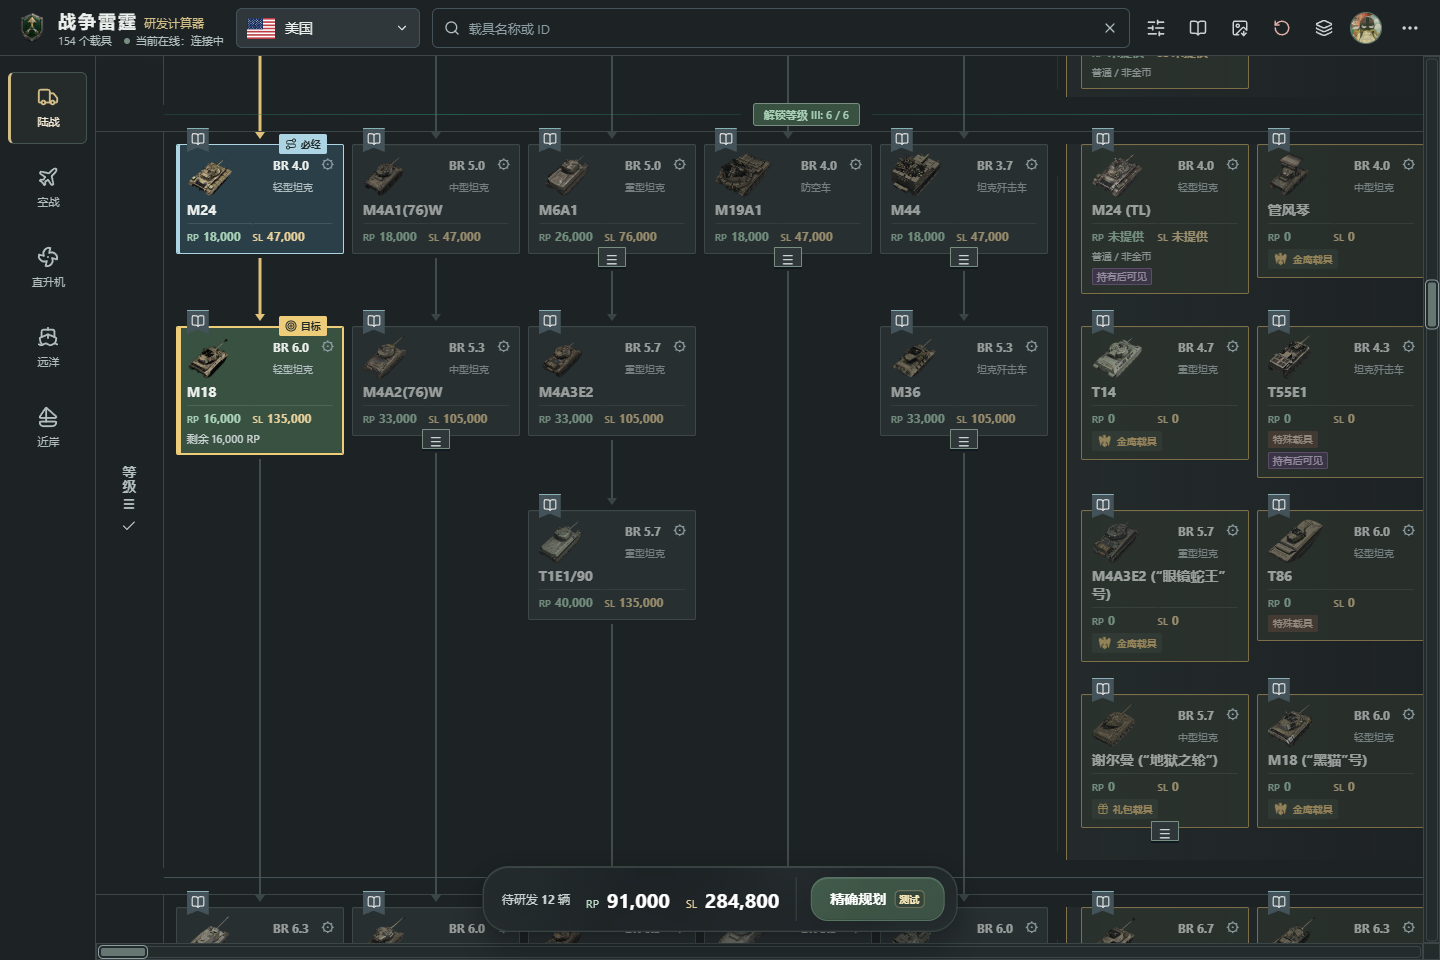
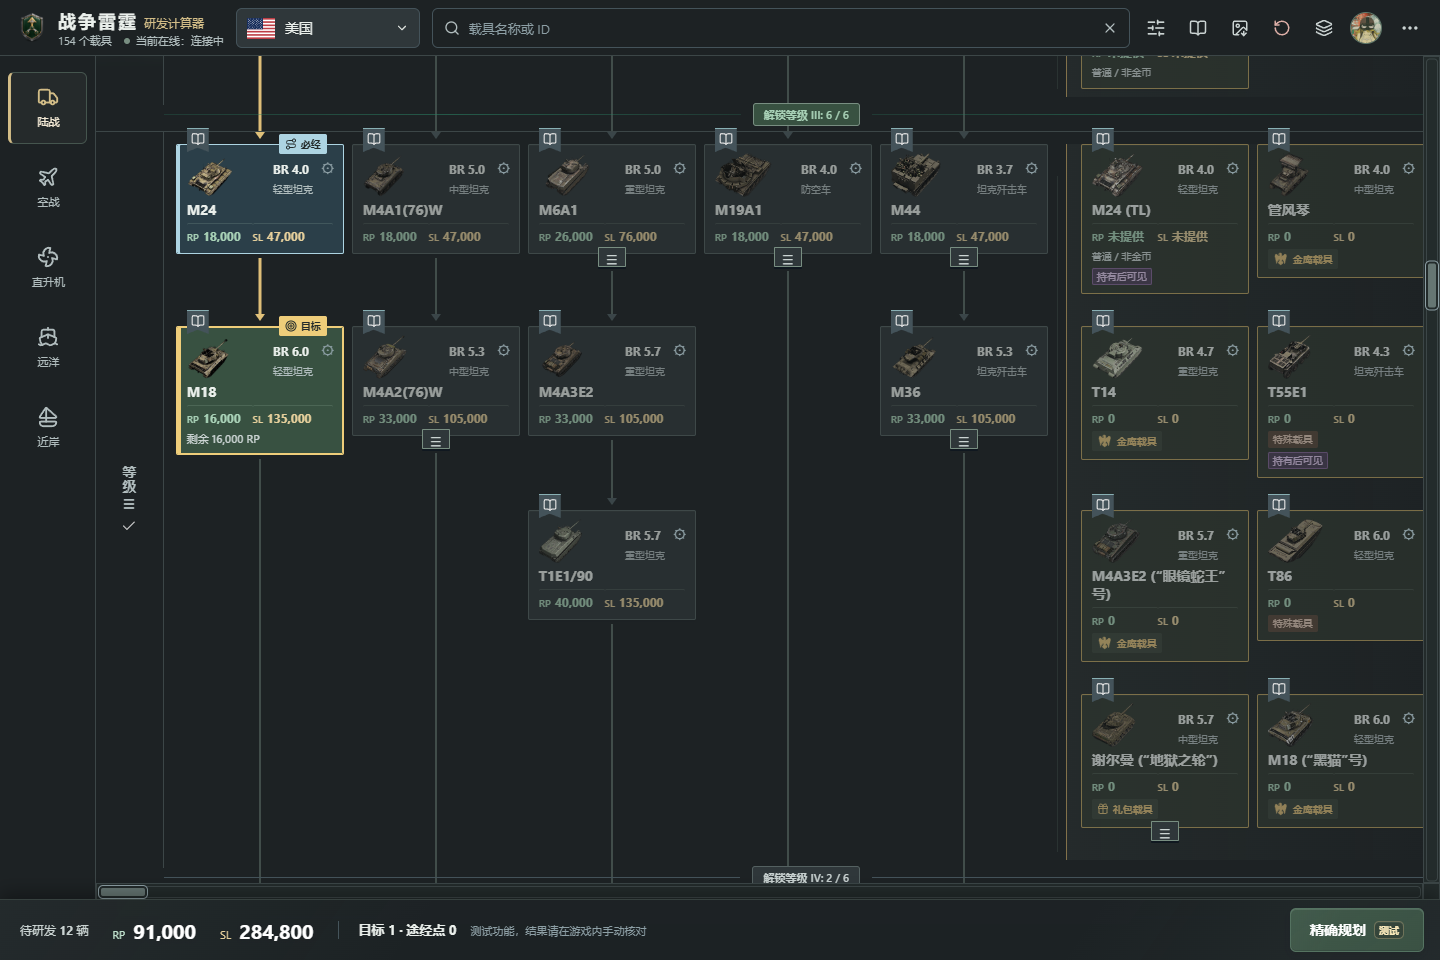
docs(readme): refresh counts, screenshots and data notes
- Count the three event vehicles added on 2026-10-24: 3,238 vehicles
  and 3,228 modification trees.
- Recapture the README screenshots. The tree view now shows the docked
  full-width budget bar.
- The capture script took the tree screenshot before the idle callback
  drew the connections. It now waits for the route path.
- Split long data notes into short sentences and lists. The facts are
  unchanged. Mention the target and waypoint summary in the desktop bar.

diff --git a/README.md b/README.md
@@ -14,7 +14,7 @@
 
 <p align="center"><strong>简体中文</strong> &nbsp; / &nbsp; <a href="README.en.md">English</a></p>
 
-<p align="center"><sub>3,235 辆载具 · 3,225 套配件树 · 5 类军种 · 7 种界面语言</sub></p>
+<p align="center"><sub>3,238 辆载具 · 3,228 套配件树 · 5 类军种 · 7 种界面语言</sub></p>
 
 ## 自动规划研发路线
 
@@ -26,7 +26,7 @@
 - **规划后仍可调整**：单独取消一辆车或标记已拥有，不会清空整条路线；再次规划时再重新计算。
 - **按游戏里的剩余值算**：直接填写游戏显示的剩余 RP。例如总计 140,000 RP、还剩 60,000 RP，就填 60,000；预算和自动规划按这个数计算，银狮不变。
 - **批量标记已拥有**：按等级标记本级及以下普通载具，确认前可查看列表，操作后可撤销；特殊和隐藏载具不会一并标记。
-- **看清完整预算**：底部显示待研发数量、RP 与银狮；可将完整科技树连同预算导出为图片。
+- **看清完整预算**：底栏显示待研发数量、RP 和银狮。电脑端的底栏还显示目标和途经点数量。完整科技树可以连同预算导出为图片。
 
 > 精确规划为测试功能。搜索达到本机计算上限时，结果是当前找到的最佳路线，不保证全局最优；实际研发前请在游戏内核对。
 
@@ -61,7 +61,12 @@
 | 查看载具资料 | 点击卡片上的 Wiki 小书签 | 同左 |
 | 打开配件研发 | 点击卡片右上角的齿轮 | 同左 |
 
-电脑端顶栏只有一行：国家、搜索，以及筛选、使用指南、导出截图、清空计划、备份几个图标按钮，鼠标悬停显示名称。计算范围、“自动补位时避开折叠载具”和“全选”在“筛选”菜单；语言和游戏版本在右上角“更多”菜单；点击头像查看作者信息。窗口较窄时，国家与军种、搜索各占一行。
+电脑端顶栏只有一行：国家、搜索，以及筛选、使用指南、导出截图、清空计划、备份几个图标按钮。鼠标悬停可以看到按钮名称。
+
+- 计算范围、“自动补位时避开折叠载具”和“全选”在“筛选”菜单里。
+- 语言和游戏版本在右上角“更多”菜单里。
+- 点击头像查看作者信息。
+- 窗口较窄时，国家与军种占一行，搜索占一行。
 
 手机版的使用指南和导出功能位于顶部“更多”菜单，搜索和筛选有各自的入口。最新网页改动见[独立更新日志](doc/web-updates.md)，使用指南中保留历史版本记录。
 
@@ -71,7 +76,7 @@
 
 网页版直接打开即可，无需游戏账号。Windows 用户下载 [v1.0.31 便携包](https://github.com/Plastic-time/warthunder-research-calculator/releases/download/v1.0.31/WarThunderResearchCalculator-v1.0.31-portable.zip)，解压后运行 `WarThunderResearchCalculator.exe`，不需要另外安装 Node.js 或 .NET。
 
-> v1.0.31 包含依赖安全修复、配件重试保护、七架飞机 BR 修正及更新检查器改进，启动器自带 .NET 10.0.14。下载包不会自动获得后续网页更新；截图用于展示界面。
+> v1.0.31 包含依赖安全修复、配件重试保护、七架飞机的 BR 修正和更新检查器改进。启动器自带 .NET 10.0.14。下载包不会自动获得之后的网页更新。截图仅作界面示意。
 
 “筛选”菜单中的“全选”可选择或取消当前国家、军种的常规研发载具，包含折叠载具，保留已拥有标记和研发进度。导出截图同时显示科技树原始总额与当前选择还需的 RP、银狮；缺失费用会单独提示。
 
@@ -83,14 +88,20 @@
 
 ## 数据与边界
 
-- **固定快照**：整体载具费用基准为游戏 **2.59.0.17**，不是与游戏实时同步。游戏配置是后续费用和前置核对的主要依据，Wiki 用于补充名称、图片和布局；现有导入流程仍有历史数据来源，不能视为全量纯游戏配置。
-- **科技树更新保护**：Wiki 刷新只更新已有条目的名称、图片和用途说明，保留费用、前置、等级、折叠结构和来源记录。新增、缺失或冲突条目进入核对报告，不自动覆盖已确认数据；这不代表完成了新的游戏版本核对。
-- **局部修正单独记录**：Ka-29、Do 217 J-2 保留已确认修正；v1.0.11 按 **2.59.0.34** 配置将两架 CA-27 的 GLBC mk.3 调整为 **9,000 RP / 14,000 SL**，不代表整体快照升级。
-- **已保留修正**：v1.0.19 按 **2.59.0.38** 更新 F4U-7 配件费用、机炮翻新层级和解锁数量；全配件合计 **47,800 RP / 86,900 SL**。
-- **已保留修正**：v1.0.25 按 **2.59.0.50** 定向更新希腊 F-86E(M)、米格-23M 和 416 工程的配件。具体费用与前置变化见[更新说明](doc/release-v1.0.25.md)，不代表全量数据升级。
-- **最新核对版本**：**2.59.0.94**。本轮只修正七架飞机的分模式 BR，空战、陆战和海战数值分别保存；费用、配件、前置和已有计划不变，不是全量快照升级。见[本轮 BR 修正依据](doc/battle-rating-correction-20261030.md)。此前 638 辆载具的 [BR 更新](doc/battle-rating-update-20261029.md)、三架日系飞机的[载具费用更新](doc/vehicle-cost-update-20261029.md)和六辆载具的[配件更新](doc/modification-update-20261029.md)，连同本轮七架飞机修正均已纳入 v1.0.31 便携包。此前[活动载具](doc/game-roster-additions-20261024.md)和[活动配件依据](doc/event-modifications-20261024.md)保留。
-- **未知不是免费**：缺失费用显示“未提供”，不当作 0。等级解锁数量还使用项目独立规则表，规划结果需结合游戏核对。
-- **计划留在浏览器**：选择、规划和研发进度保存在当前浏览器，不上传、不跨设备同步；清除浏览器站点数据会删除这些记录。图片、Wiki 和网页版在线人数需要联网；在线人数是浏览器估计值，统计异常不影响计算。
+- **固定快照**：整体载具费用基准为游戏 **2.59.0.17**，不随游戏实时同步。后续核对费用和前置时，以游戏配置为主要依据。Wiki 只补充名称、图片和布局。现有导入流程还用到一些历史数据来源，所以不能算作全部来自游戏配置。
+- **科技树更新保护**：Wiki 刷新只更新已有条目的名称、图片和用途说明。费用、前置、等级、折叠结构和来源记录保持不变。新增、缺失或冲突的条目进入核对报告，不会自动覆盖已确认的数据。这一步不等于核对了新的游戏版本。
+- **局部修正单独记录**：Ka-29、Do 217 J-2 保留已确认的修正。v1.0.11 按 **2.59.0.34** 配置，把两架 CA-27 的 GLBC mk.3 改为 **9,000 RP / 14,000 SL**。这不代表整体快照升级。
+- **已保留修正**：v1.0.19 按 **2.59.0.38** 更新 F4U-7 的配件费用、机炮翻新层级和解锁数量。全部配件合计 **47,800 RP / 86,900 SL**。
+- **已保留修正**：v1.0.25 按 **2.59.0.50** 定向更新希腊 F-86E(M)、米格-23M 和 416 工程的配件。费用与前置的变化见[更新说明](doc/release-v1.0.25.md)。这不代表全量数据升级。
+- **最新核对版本**：**2.59.0.94**。这一轮只修正七架飞机的分模式 BR，空战、陆战、海战的数值分开保存。费用、配件、前置和已有计划都没变，也不是全量快照升级。依据见[本轮 BR 修正说明](doc/battle-rating-correction-20261030.md)。
+- **v1.0.31 便携包已包含的数据更新**：
+  - [638 辆载具的 BR 更新](doc/battle-rating-update-20261029.md)
+  - [三架日系飞机的载具费用更新](doc/vehicle-cost-update-20261029.md)
+  - [六辆载具的配件更新](doc/modification-update-20261029.md)
+  - 上面这七架飞机的 BR 修正
+- **活动载具**：此前补录的[活动载具依据](doc/game-roster-additions-20261024.md)和[活动配件依据](doc/event-modifications-20261024.md)继续保留。
+- **未知不是免费**：缺失费用显示“未提供”，不当作 0。等级解锁数量仍使用项目自己的规则表。规划结果请在游戏中核对。
+- **计划留在浏览器**：选择、规划和研发进度保存在当前浏览器，不上传，也不跨设备同步。清除浏览器的站点数据会删除这些记录。图片、Wiki 和在线人数需要联网。在线人数是浏览器估计值，统计出问题不影响计算。
 
 <details>
 <summary>开发、维护与更多说明</summary>

diff --git a/README.en.md b/README.en.md
@@ -14,7 +14,7 @@
 
 <p align="center"><a href="README.md">简体中文</a> &nbsp; / &nbsp; <strong>English</strong></p>
 
-<p align="center"><sub>3,235 vehicles · 3,225 modification trees · 5 vehicle categories · 7 UI languages</sub></p>
+<p align="center"><sub>3,238 vehicles · 3,228 modification trees · 5 vehicle categories · 7 UI languages</sub></p>
 
 ## Plan Your Research Route
 
@@ -26,7 +26,7 @@ Set your targets and mark the vehicles you own. The calculator searches for a lo
 - **Adjust the result**: remove a vehicle or mark it as owned without clearing the rest of the route. Run the planner again when you want a new calculation.
 - **Use the remaining RP shown in the game**: if a 140,000 RP vehicle needs 60,000 more, enter 60,000. Budgets and route choices use that amount. Its Silver Lion cost stays the same.
 - **Mark ranks as owned**: mark regular vehicles at a chosen rank and all lower ranks. Review the list before confirming, or undo the change afterward. Special and hidden vehicles are excluded.
-- **Keep the budget in view**: see the remaining vehicle count, RP, and Silver Lions in the bottom bar. Export the complete tech tree and its budget as an image.
+- **Keep the budget in view**: the bottom bar shows the remaining vehicle count, RP, and Silver Lions. On desktop it also shows your targets and waypoints. Export the complete tech tree and its budget as an image.
 
 > Route optimization is a beta feature. The search has a computation limit. It returns the best route found. A cheaper route may still exist. Check the result in the game before researching.
 
@@ -61,7 +61,12 @@ Open a vehicle's modification window and choose the upgrades you need. Mark rese
 | View vehicle information | Select the Wiki bookmark on the card | Same |
 | Open modification research | Select the gear at the top right of the card | Same |
 
-On desktop, the header is a single row: nation, search, and icon buttons for Filters, Guide, Export, Clear Plan, and Backup. Hover over an icon to see its name. Calculation scope, the foldered-vehicle option, and Select all are in Filters. Language and game version are in More at the top right. Select the avatar for author details. In narrower windows, nation and category share one row and search takes the next.
+On desktop, the header is a single row: nation, search, and icon buttons for Filters, Guide, Export, Clear Plan, and Backup. Hover over an icon to see its name.
+
+- Calculation scope, the foldered-vehicle option, and Select all are in Filters.
+- Language and game version are in More at the top right.
+- Select the avatar for author details.
+- In narrower windows, nation and category share one row. Search takes the next.
 
 On mobile, open More at the top to find the guide and export controls. Search and filters have separate buttons. See the [web changelog](doc/web-updates.md#english) for recent changes. The in-app guide keeps earlier release notes.
 
@@ -71,7 +76,7 @@ Search accepts names such as F15, F-15, and F 15 and shows the match count. On m
 
 Open the web app to start. No game account is required. On Windows, download the [v1.0.31 portable package](https://github.com/Plastic-time/warthunder-research-calculator/releases/download/v1.0.31/WarThunderResearchCalculator-v1.0.31-portable.zip). Extract it and run `WarThunderResearchCalculator.exe`. No separate Node.js or .NET installation is needed.
 
-> v1.0.31 includes dependency security fixes, safer modification retries, seven aircraft BR corrections and update checker improvements. The launcher bundles .NET 10.0.14. It does not receive later web updates automatically. Screenshots illustrate the interface.
+> v1.0.31 includes dependency security fixes, safer modification retries, BR corrections for seven aircraft, and update checker improvements. The launcher bundles .NET 10.0.14. The download does not receive later web updates automatically. Screenshots illustrate the interface.
 
 Select all, in Filters, toggles the current nation's regular research tree, including foldered vehicles. It keeps owned marks and research progress. Exported screenshots show original tree totals and the RP and Silver Lions still needed for your selection. Missing costs are clearly flagged.
 
@@ -88,7 +93,13 @@ Browse ground vehicles, aircraft, helicopters, bluewater fleets, and coastal fle
 - **Scoped corrections**: confirmed Ka-29 and Do 217 J-2 corrections remain in place. Version 1.0.11 uses configuration **2.59.0.34** to set GLBC mk.3 on both CA-27 variants to **9,000 RP / 14,000 SL**. This is not a full snapshot upgrade.
 - **Retained correction**: v1.0.19 updates F4U-7 modification costs, the cannon upgrade tier, and unlock counts using **2.59.0.38**. All modifications total **47,800 RP / 86,900 SL**.
 - **Retained correction**: v1.0.25 updates modifications for the Greek F-86E(M), MiG-23M, and Object 416 using **2.59.0.50**. See the [release notes](doc/release-v1.0.25.md#english) for costs and prerequisites. This is not a full data upgrade.
-- **Latest reviewed version**: **2.59.0.94**. This update corrects mode-specific BR for seven aircraft. Air, ground and naval ratings remain separate. Costs, modifications, prerequisites and saved plans are unchanged. This is not a full snapshot upgrade. See the [current BR correction evidence](doc/battle-rating-correction-20261030.md) (Chinese). The earlier [BR update for 638 vehicles](doc/battle-rating-update-20261029.md) (Chinese), [vehicle cost update for three Japanese aircraft](doc/vehicle-cost-update-20261029.md) (Chinese) and [modification update for six vehicles](doc/modification-update-20261029.md) are included in v1.0.31, together with the seven-aircraft correction. Earlier [event vehicle](doc/game-roster-additions-20261024.md) and [event modification evidence](doc/event-modifications-20261024.md) is retained.
+- **Latest reviewed version**: **2.59.0.94**. This update corrects mode-specific BR for seven aircraft. Air, ground, and naval ratings are stored separately. Costs, modifications, prerequisites, and saved plans are unchanged. This is not a full snapshot upgrade. See the [current BR correction evidence](doc/battle-rating-correction-20261030.md) (Chinese).
+- **Data updates in the v1.0.31 package**:
+  - [BR update for 638 vehicles](doc/battle-rating-update-20261029.md) (Chinese)
+  - [Vehicle cost update for three Japanese aircraft](doc/vehicle-cost-update-20261029.md) (Chinese)
+  - [Modification update for six vehicles](doc/modification-update-20261029.md)
+  - The BR correction for the seven aircraft above
+- **Event vehicles**: earlier [event vehicle](doc/game-roster-additions-20261024.md) and [event modification evidence](doc/event-modifications-20261024.md) is retained.
 - **Unknown is not free**: missing prices are shown as unavailable, not zero. Rank-unlock counts still use a separate project rules table. Verify your route in the game.
 - **Plans stay in your browser**: selections, routes, and RP progress are saved locally. They are not uploaded or synced between devices. Clearing site data deletes these records. Images, Wiki pages, and the online counter need a connection. The counter estimates active browsers. An outage does not affect calculations.
 
